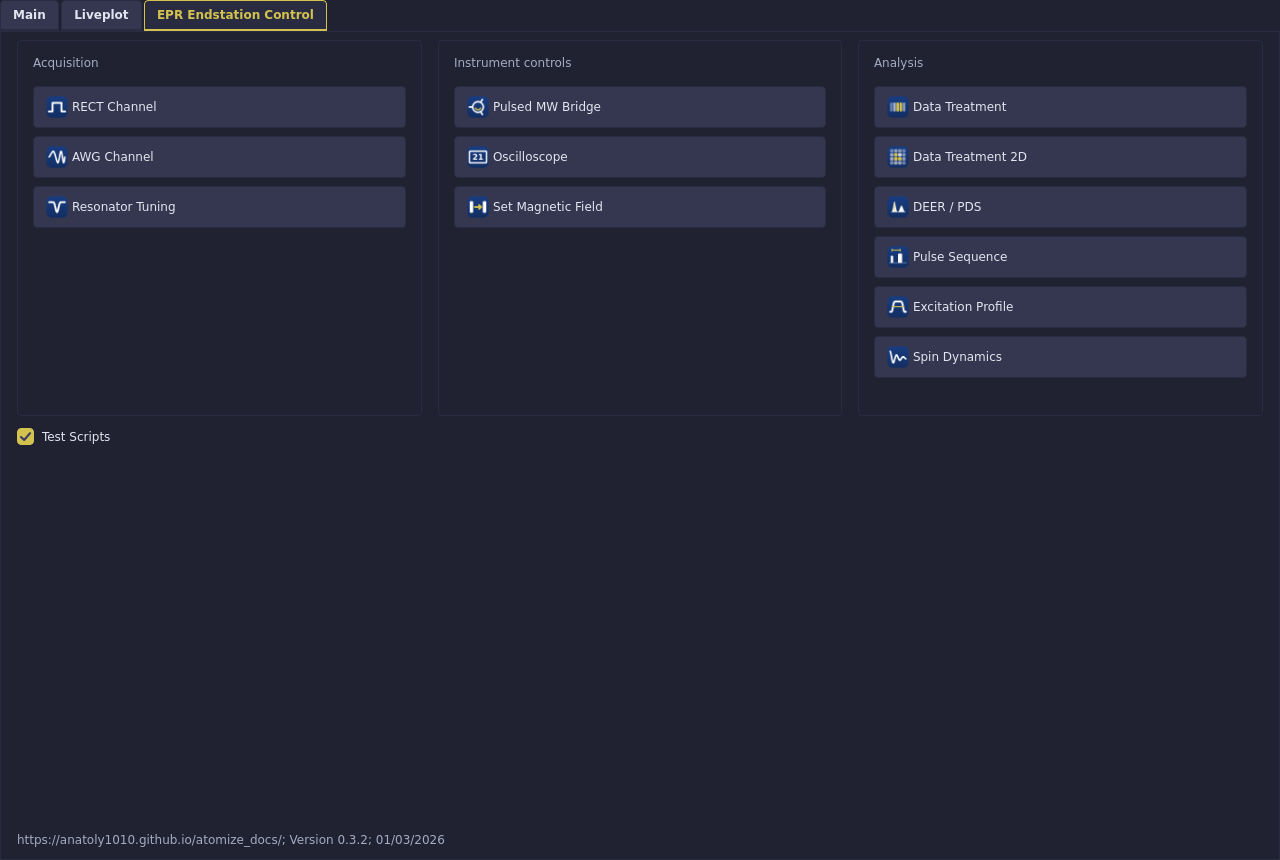
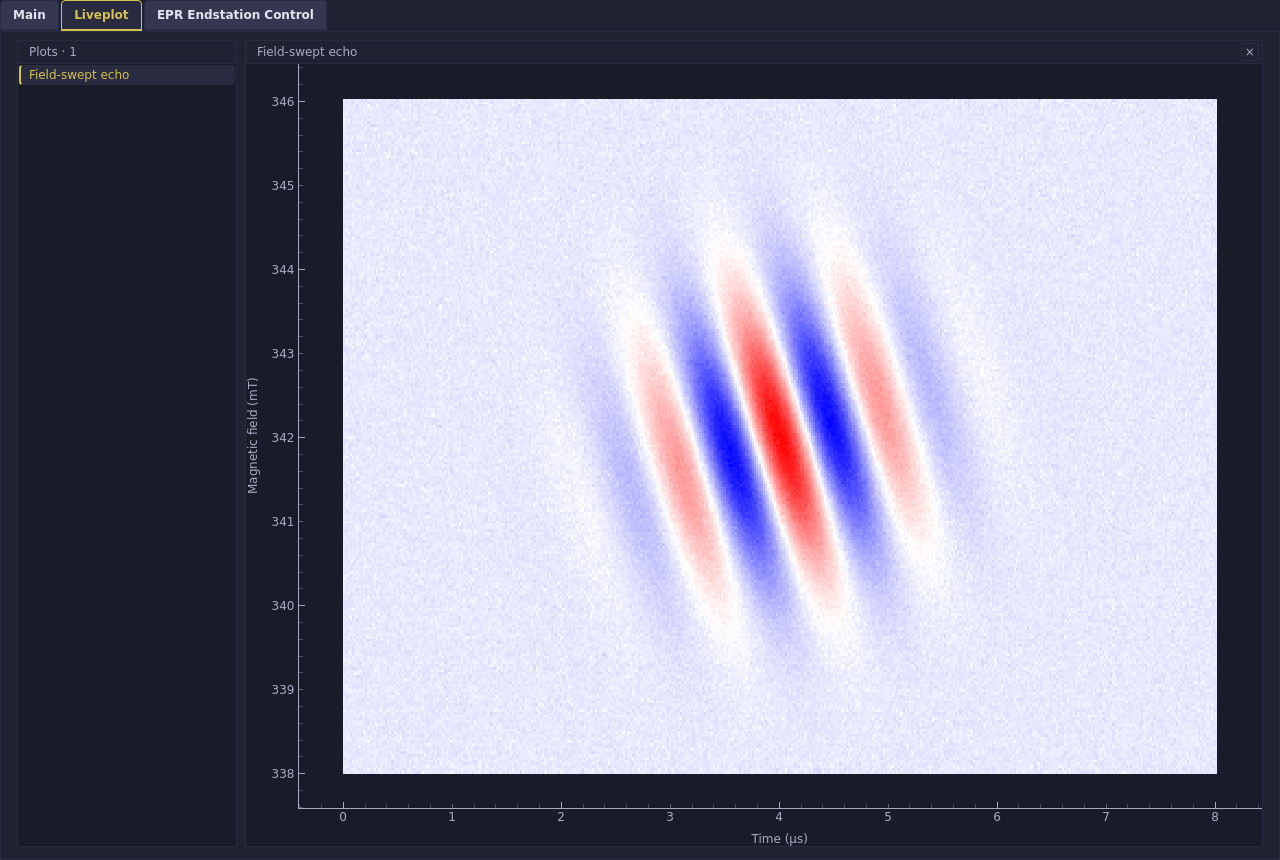
Refresh screenshots with noisy traces and separate 1D and 2D views

diff --git a/readme.md b/readme.md
@@ -261,6 +261,6 @@ The original [C library](http://www.spincore.com/support/spinapi/using_spin_api_
 
 ![Script editor and experiment queue](screenshots/screenshot.png)
 
-![Liveplot with synthetic demonstration data](screenshots/screenshot2.png)
+![Liveplot with two noisy 1D traces](screenshots/screenshot2.png)
 
-![EPR Endstation Control](screenshots/screenshot3.png)
+![Liveplot with a noisy 2D echo map](screenshots/screenshot3.png)
